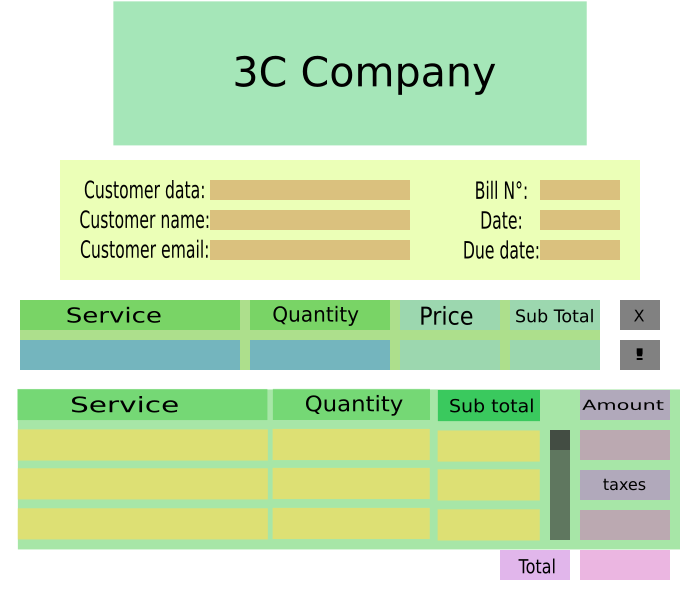
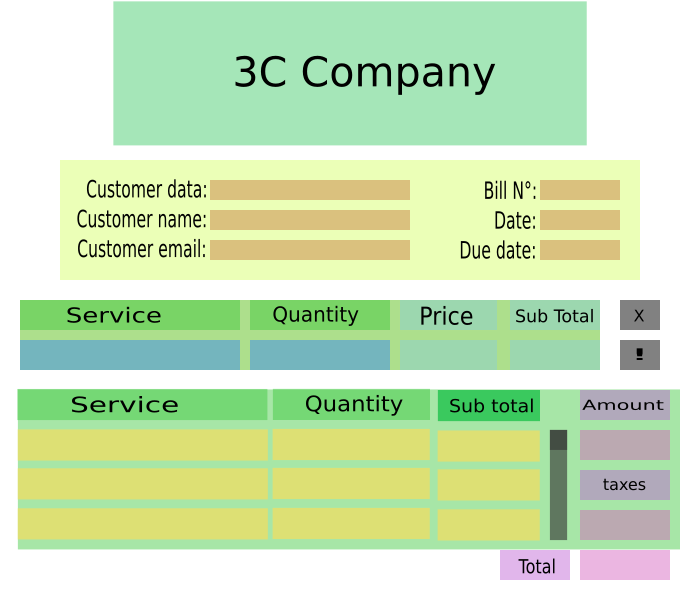
added widgets in make bill menu
still don´t added amount, taxes, total, X and !

diff --git a/3C System.py b/3C System.py
@@ -13,6 +13,7 @@ class Menu:
 	menu_canva = Canvas(window, width=700, height=600, bg="White")
 	menu_canva.pack()
 	logo_3C = PhotoImage(file="Plantillas menu/3clogo.png")
+
 	# screen.create_image(238, 73, image=logo_3C)
 
 	def __init__(self, user):
@@ -21,7 +22,7 @@ class Menu:
 
 	def menu(self):
 		main_menu_image = PhotoImage(file="Plantillas menu\dibujo.png")
-		user_image = Image.open("user_database/"+self.user)
+		user_image = Image.open("user_database/" + self.user)
 		user_image = user_image.resize((436, 435), Image.ANTIALIAS)
 		user_photo = ImageTk.PhotoImage(user_image)
 		self.menu_canva.create_image(350, 300, image=main_menu_image)
@@ -57,21 +58,61 @@ class Menu:
 		sub_window.bill_image = PhotoImage(file="Plantillas menu/Bill.png")
 		sub_canva.create_image(350, 300, image=sub_window.bill_image)
 		sub_canva.create_image(350, 73, image=self.logo_3C)
-		#tree
-		services_view = ttk.Treeview(sub_canva, selectmode='browse', height=6,show="tree")
+
+		# tree
+		services_view = ttk.Treeview(sub_canva, selectmode='browse', height=6, show="tree")
+		ttk.Style().configure("Treeview", background="SpringGreen3",
+		                      foreground="SpringGreen2")
 		services_view["columns"] = ("quantity", "sub total")
 		services_view.column("#0", width=255)  # services
 		services_view.column("quantity", width=160)
 		services_view.column("sub total", width=105)
 		services_view["displaycolumns"] = ("quantity", "sub total")
-		services_view.x=16
-		services_view.y=427
-		services_view.place(x=16, y=427)
-		scroll=create_scroll(sub_canva,services_view,"right")
-		#combobox
-		customer_data=ttk.Combobox(sub_canva,state="normal",width=30)
-		customer_data["values"]=("hi","hola")
+		services_view.place(x=18, y=427)
+		scroll = create_scroll(sub_canva, services_view, "vertical", x=549, y=428)
+
+		# combobox´s
+		customer_data = ttk.Combobox(sub_canva, state="normal", width=30)
+		customer_data["values"] = ("EM2", "EM1")
 		customer_data.place(x=208, y=178, height=22)
+
+		customer_name = ttk.Combobox(sub_canva, state="normal", width=30)
+		customer_name["values"] = ("Almendro", "Pablo")
+		customer_name.place(x=208, y=208, height=22)
+
+		service = ttk.Combobox(sub_canva, state="normal", width=33)
+		service["values"] = ("Almendro", "Pablo")
+		service.place(x=20, y=338, height=32)
+
+		# labels
+		customer_email = Label(sub_canva, width=28, bg="MistyRose2", )
+		customer_email.place(x=208, y=238, height=22)
+
+		bill_number = Label(sub_canva, width=12, bg="MistyRose2")
+		bill_number.place(x=538, y=178, height=22)
+
+		date = Label(sub_canva, width=12, bg="MistyRose2")
+		date.place(x=538, y=208, height=22)
+
+		due_date = Label(sub_canva, width=12, bg="MistyRose2")
+		due_date.place(x=538, y=238, height=22)
+
+		price = Label(sub_canva, width=13, bg="chartreuse3", textvariable="asd")
+		price.place(x=398, y=338, height=32)
+
+		sub_total = Label(sub_canva, width=12, bg="chartreuse3", text="price*quantity")
+		sub_total.place(x=508, y=338, height=32)
+		print("asdda")
+
+		# entry
+		quantity = IntVar()
+
+		quantity_entry = Entry(sub_canva, textvariable=quantity, width=23)
+		quantity_entry.place(x=249, y=339, height=32)
+		# quantity_entry.bind("<Return>", self.update_price_bill()) reserved event to input quantity
+
+	def update_price_bill(self,quantity,service):
+		pass
 
 
 	def search_bill(self):
@@ -104,19 +145,21 @@ class Menu:
 		make_bill_text = Label(
 			sub_canva, text="generate_pdf", bg="White", anchor=S).pack()
 
-def create_scroll(canvas,object,orrentation):
-	if orrentation=="rigth":
-		orrentation="vertical"
+
+def create_scroll(canvas, object, orientation, x=0, y=0):
+	if orientation == "vertical":
+		orientation = "vertical"
 	else:
-		orrentation="horizontal"
-	scroll = ttk.Scrollbar(canvas, orient=orrentation, command=object.yview)
-	scroll.place(x=object.x+object.width, y=object.y, height=object.height)
+		orientation = "horizontal"
+	scroll = ttk.Scrollbar(canvas, orient=orientation, command=object.yview)
+	scroll.place(x=x, y=y, height=object["height"] * 18.55)
 	return scroll
+
 
 def load_users():
 	for user in os.listdir("user_database"):
 		print(user)
-		image = face_recognition.load_image_file(r"user_database/"+user)
+		image = face_recognition.load_image_file(r"user_database/" + user)
 		face_encoding = face_recognition.face_encodings(
 			image, num_jitters=1)[0]
 		print(face_encoding)
@@ -130,8 +173,6 @@ def login_image():
 
 	cv2.namedWindow("FaceCapture")
 
-	img_counter = 0
-
 	while True:
 		ret, frame = cam.read()
 		if not ret:
@@ -142,7 +183,7 @@ def login_image():
 		k = cv2.waitKey(1)
 		if k % 256 == 32:  # Space pressed
 			user_face = "user_0.png"
-			cv2.imwrite("user_database/"+user_face, frame)
+			cv2.imwrite(r"user_database/" + user_face, frame)
 			print("User_0 written!")
 			print("Closing...")
 			break
@@ -172,7 +213,6 @@ def login():
 	else:
 		print("You are not in our database! Please create your profile or get in contact with support")
 		return False, -1
-	# ---------------------------------------------------------------------------------
 
 
 def top_level():
